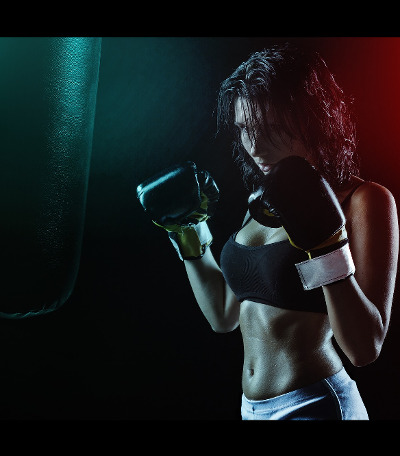
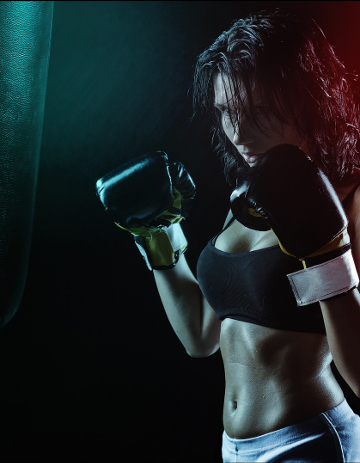
added better sized background images

diff --git a/css/main.css b/css/main.css
@@ -166,8 +166,12 @@ footer figure {
    /* Small devices (tablets, 768px and up) */
       @media (min-width: 768px) {
 
+      .navbar-nav .nav-link:hover {
+        text-decoration: underline;
+      }
+
         #landing_jumb {
-          background-image: url(../img/background_medium.jpg);
+          background-image: url(../img/background_medium_test.jpg);
         }
 
         #h2_landing {
